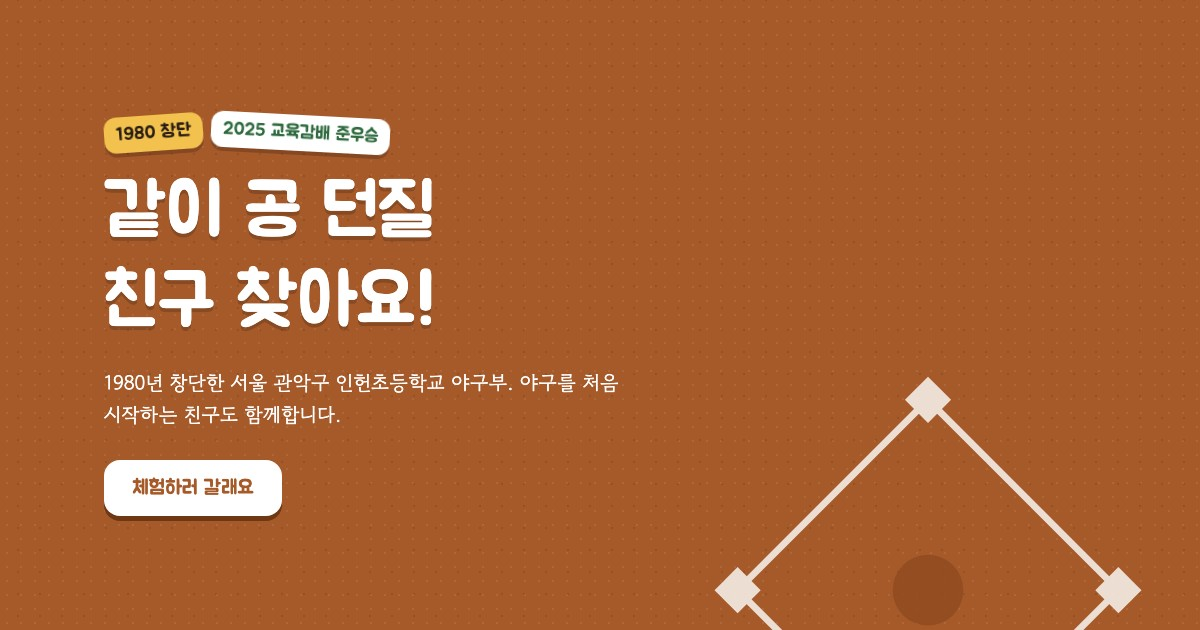
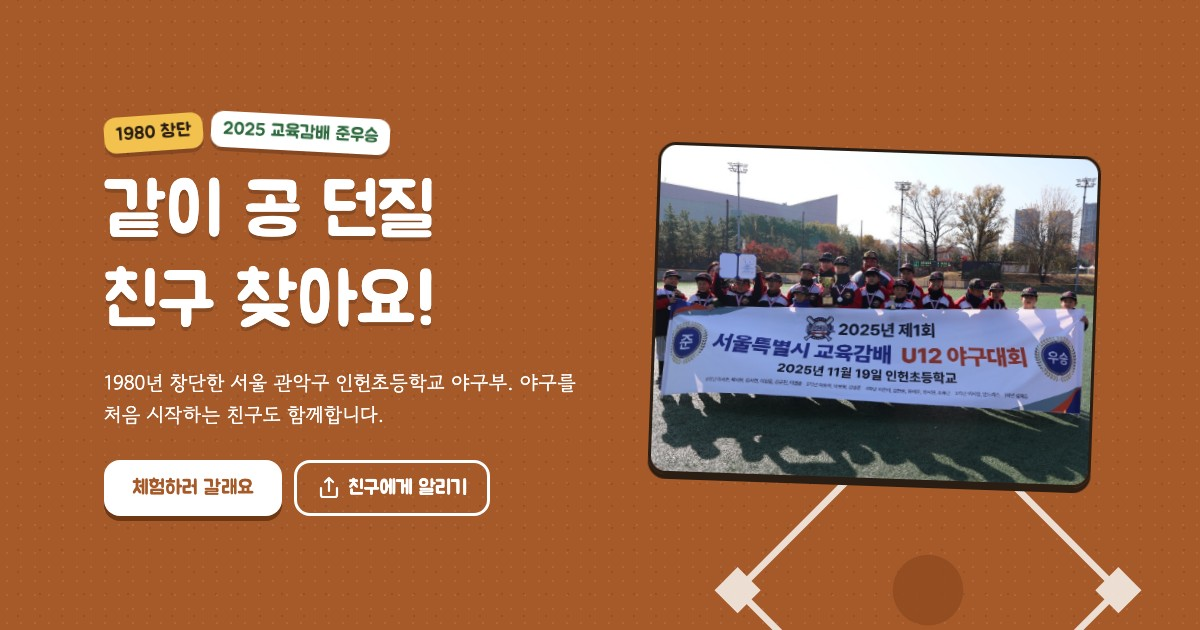
feat: full-width reel rail with trailing Instagram card and new OG image
- Lay reels out as a horizontal rail (4 per row on desktop) that scrolls when more are added.
- Put the Instagram profile card last in the rail; let the next card peek on phones.
- Recapture the OG image from the hero with the team photo.

Changed region(s): [[0.4933, 0.2111, 0.925, 0.7841], [0.2467, 0.7238, 0.4317, 0.8444], [0.0925, 0.6333, 0.3083, 0.6937]]

diff --git a/src/packages/features/home/Home.tsx b/src/packages/features/home/Home.tsx
@@ -2,6 +2,7 @@ import Image from 'next/image';
 import Link from 'next/link';
 import { CharacterFace } from '~components/team-character';
 import { ACHIEVEMENTS, ALUMNI, MIDDLE_SCHOOLS } from '~content/history';
+import emblem from '~content/images/emblem.jpg';
 import { PLAYERS, ROSTER_SEASON } from '~content/players';
 import { HERO_PHOTO, INSTAGRAM, RECRUIT, TESTIMONIALS } from '~content/recruit';
 import { daysAt, PLACES } from '~content/schedule';
@@ -340,38 +341,30 @@ export function Home() {
         aria-labelledby="shorts-title"
         className="mx-auto max-w-5xl px-4 pt-16"
       >
-        <div className="flex flex-wrap items-end justify-between gap-3">
-          <h2 id="shorts-title" className="font-display text-3xl">
-            짧은 영상
-          </h2>
-          {INSTAGRAM.url ? (
-            <a
-              href={INSTAGRAM.url}
-              target="_blank"
-              rel="noopener noreferrer"
-              className="chunky inline-flex min-h-12 items-center gap-2 bg-gradient-to-r from-[#f58529] via-[#dd2a7b] to-[#8134af] px-4 font-display text-lg text-white shadow-none"
-            >
-              인스타그램 가기
-            </a>
-          ) : null}
-        </div>
-        {/* 쇼츠 화면처럼 세로 표지 세 개를 한 줄에 둔다. 누르면 인스타그램에서 재생된다. */}
-        <ul className="mx-auto mt-5 grid max-w-2xl grid-cols-3 gap-2.5 sm:gap-5">
+        <h2 id="shorts-title" className="font-display text-3xl">
+          짧은 영상
+        </h2>
+        {/* 릴스를 차례로 두고 맨 끝에 '더 보기' 카드를 둔다. 많아지면 옆으로 넘겨 본다.
+            휴대폰은 다음 카드가 살짝 보여서 넘길 수 있다는 걸 알 수 있다. */}
+        <ul className="-mx-4 mt-5 flex scroll-px-4 snap-x snap-mandatory gap-3 overflow-x-auto px-4 pb-3 sm:gap-5 md:mx-0 md:scroll-px-0 md:px-0">
           {INSTAGRAM.reels.length > 0
             ? INSTAGRAM.reels.map((reel, index) => (
-                <li key={reel.code} className="reveal">
+                <li
+                  key={reel.code}
+                  className="w-[28%] shrink-0 snap-start md:w-[calc((100%-3.75rem)/4)]"
+                >
                   <a
                     href={`https://www.instagram.com/reel/${reel.code}/`}
                     target="_blank"
                     rel="noopener noreferrer"
                     aria-label={`인스타그램 릴스 ${index + 1} 보기`}
-                    className="chunky group relative block overflow-hidden transition-transform duration-200 hover:-translate-y-1"
+                    className="chunky group relative block overflow-hidden"
                   >
                     <Image
                       src={reel.thumb}
                       alt=""
-                      sizes="(min-width: 640px) 210px, 33vw"
-                      className="skeleton aspect-[9/16] w-full object-cover"
+                      sizes="(min-width: 768px) 240px, 28vw"
+                      className="skeleton aspect-[9/16] w-full object-cover transition-transform duration-300 group-hover:scale-105"
                     />
                     <span className="absolute inset-0 grid place-items-center bg-black/10">
                       <span className="grid size-11 place-items-center rounded-full bg-white/90 text-ink shadow-[0_3px_0_rgb(0_0_0/0.25)] transition-transform group-hover:scale-110 sm:size-14">
@@ -389,13 +382,43 @@ export function Home() {
                 </li>
               ))
             : [0, 1, 2].map(slot => (
-                <li key={slot}>
+                <li
+                  key={slot}
+                  className="w-[28%] shrink-0 md:w-[calc((100%-3.75rem)/4)]"
+                >
                   <Placeholder
                     label="릴스 자리"
                     className="aspect-[9/16] border-ink/30 text-ink/50"
                   />
                 </li>
               ))}
+          {INSTAGRAM.url ? (
+            <li className="w-[28%] shrink-0 snap-start md:w-[calc((100%-3.75rem)/4)]">
+              <a
+                href={INSTAGRAM.url}
+                target="_blank"
+                rel="noopener noreferrer"
+                className="chunky flex h-full flex-col items-center justify-center gap-2 bg-gradient-to-br from-[#f58529] via-[#dd2a7b] to-[#8134af] p-3 text-center text-white transition-transform duration-200 hover:-translate-y-1 sm:gap-3"
+              >
+                <Image
+                  src={emblem}
+                  alt=""
+                  width={64}
+                  height={64}
+                  className="size-10 rounded-full border-[3px] border-white sm:size-16"
+                />
+                <span className="font-display text-sm sm:text-xl">
+                  @{INSTAGRAM.url.split('/').filter(Boolean).at(-1)}
+                </span>
+                <span className="hidden leading-relaxed sm:block">
+                  훈련하고 경기하는 순간을 릴스로 올려요.
+                </span>
+                <span className="rounded-xl bg-white px-2 py-1 font-display text-[#c13584] text-sm sm:px-4 sm:py-2 sm:text-lg">
+                  더 보기 →
+                </span>
+              </a>
+            </li>
+          ) : null}
         </ul>
       </section>
 
